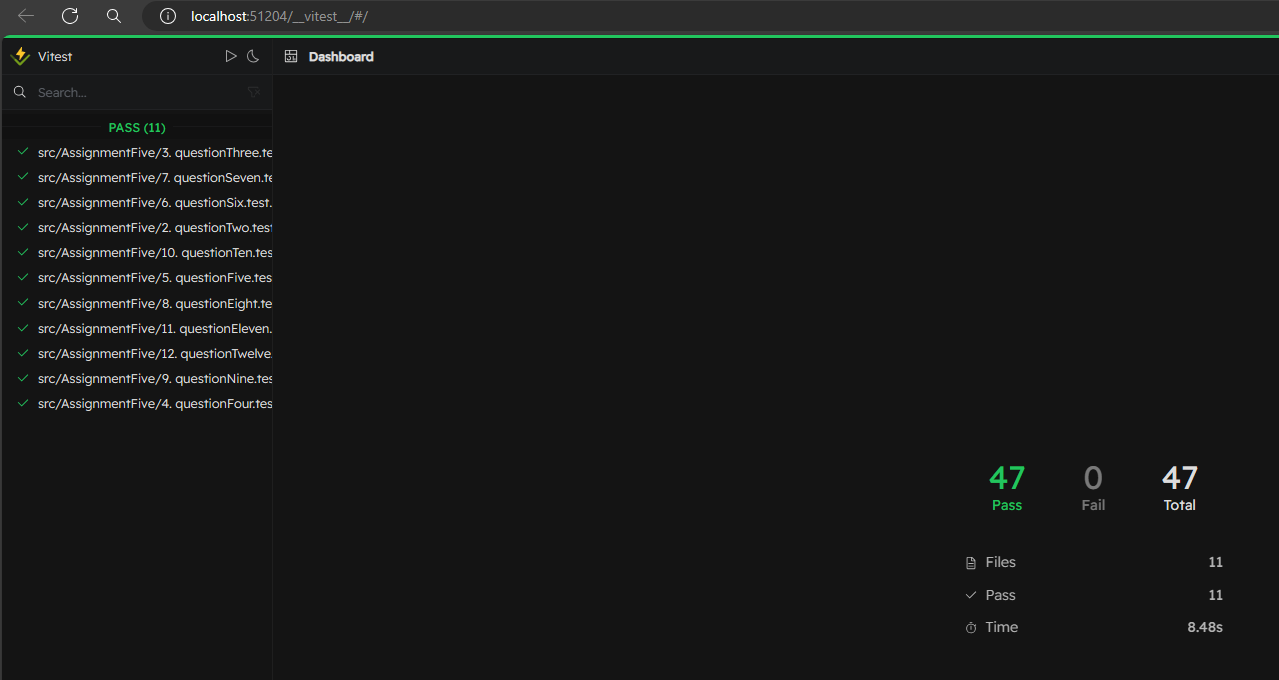
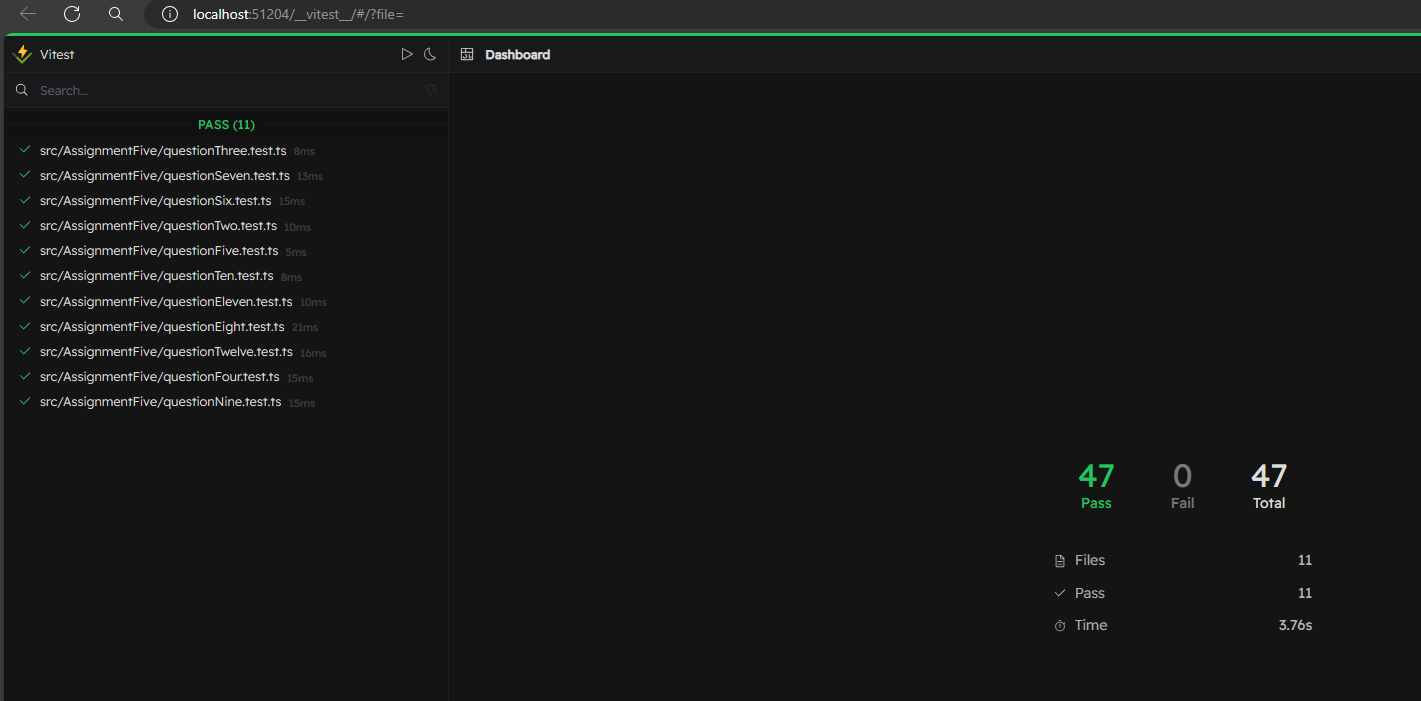
Renamed files again and updated readme.md

diff --git a/src/AssignmentFive/questionFive.test.ts b/src/AssignmentFive/questionFive.test.ts
@@ -1,5 +1,5 @@
 import { describe, test, expect } from 'vitest';
-import { IPricingStrategy, RegularPricingStrategy, HighDemandPricingStrategy, RideService } from './5. questionFive';
+import { IPricingStrategy, RegularPricingStrategy, HighDemandPricingStrategy, RideService } from './questionFive';
 
 describe('Question Five Test Cases', () => {
     test('should calculate fare using RegularPricingStrategy', () => {

diff --git a/src/AssignmentFive/questionEleven.test.ts b/src/AssignmentFive/questionEleven.test.ts
@@ -1,5 +1,5 @@
 import { describe, beforeEach, test, expect, vi } from 'vitest';
-import { PricingStrategy, BasicPricingStrategy, DynamicPricingStrategy, ServiceHandler } from './11. questionEleven';
+import { PricingStrategy, BasicPricingStrategy, DynamicPricingStrategy, ServiceHandler } from './questionEleven';
 
 describe('Pricing Strategy Tests', () => {
     let serviceHandler: ServiceHandler;

diff --git a/src/AssignmentFive/questionTwelve.test.ts b/src/AssignmentFive/questionTwelve.test.ts
@@ -1,5 +1,5 @@
 import { describe, test, expect } from 'vitest';
-import { Smartphone, MobileWeb, SmartphoneAdapter, MobileWebAdapter, App } from './12. questionTwelve';
+import { Smartphone, MobileWeb, SmartphoneAdapter, MobileWebAdapter, App } from './questionTwelve';
 
 describe('Question Twelve Test Cases', () => {
     test('Smartphone Adapter should correctly delegate operations', () => {

diff --git a/src/AssignmentFive/questionTwo.test.ts b/src/AssignmentFive/questionTwo.test.ts
@@ -1,5 +1,5 @@
 import { describe, expect, test, vi } from "vitest";
-import { CarPoolService, CarXService, CarBlackService, CarServiceFacade } from "./2. questionTwo";
+import { CarPoolService, CarXService, CarBlackService, CarServiceFacade } from "./questionTwo";
 
 describe('Question Two Test Cases', () => {
   test("CarPoolService calculateFee returns 'CarPool Service Fee'", () => {

diff --git a/src/AssignmentFive/questionEight.test.ts b/src/AssignmentFive/questionEight.test.ts
@@ -1,5 +1,5 @@
 import { describe, beforeEach, test, expect, vi } from 'vitest';
-import { NormalCarFactory, LuxuryCarFactory, CarService, FaultyCarFactory } from './8. questionEight';
+import { NormalCarFactory, LuxuryCarFactory, CarService, FaultyCarFactory } from './questionEight';
 
 describe('Question Eight Test Cases', () => {
     let normalFactory: NormalCarFactory;

diff --git a/src/AssignmentFive/questionTen.test.ts b/src/AssignmentFive/questionTen.test.ts
@@ -1,5 +1,5 @@
 import { describe, beforeEach, test, expect, vi } from 'vitest';
-import { BasicService, FeatureXDecorator, FeatureYDecorator, FaultyService } from './10. questionTen';
+import { BasicService, FeatureXDecorator, FeatureYDecorator, FaultyService } from './questionTen';
 
 describe('Question Ten Test Cases', () => {
     let basicService: BasicService;

diff --git a/src/AssignmentFive/questionNine.test.ts b/src/AssignmentFive/questionNine.test.ts
@@ -1,5 +1,5 @@
 import { describe, beforeEach, test, expect, vi } from 'vitest';
-import { ReservationAdapter, LegacyReservationSystem } from './9. questionNine';
+import { ReservationAdapter, LegacyReservationSystem } from './questionNine';
 
 describe('Question Nine Test Cases', () => {
     let legacySystem: LegacyReservationSystem;

diff --git a/src/AssignmentFive/questionSix.test.ts b/src/AssignmentFive/questionSix.test.ts
@@ -1,5 +1,5 @@
 import { describe, beforeEach, test, expect, vi } from 'vitest';
-import { Rider, CouponService, RiderImpl } from './6. questionSix';
+import { Rider, CouponService, RiderImpl } from './questionSix';
 
 describe('Question Six Test Cases', () => {
     let couponService: CouponService;

diff --git a/src/AssignmentFive/questionSeven.test.ts b/src/AssignmentFive/questionSeven.test.ts
@@ -1,5 +1,5 @@
 import { describe, beforeEach, test, expect, vi } from 'vitest';
-import { MessageBoard, ConcreteRider } from './7. questionSeven';
+import { MessageBoard, ConcreteRider } from './questionSeven';
 
 describe('Question Seven Test Cases', () => {
     let board: MessageBoard;

diff --git a/src/AssignmentFive/questionThree.test.ts b/src/AssignmentFive/questionThree.test.ts
@@ -1,5 +1,5 @@
 import { describe, expect, test, vi } from 'vitest';
-import { BasicRide, CarGo, CarEATS, ServiceContext } from './3. questionThree';
+import { BasicRide, CarGo, CarEATS, ServiceContext } from './questionThree';
 
 
 vi.spyOn(console, 'log').mockImplementation(() => { });

diff --git a/src/AssignmentFive/questionFour.test.ts b/src/AssignmentFive/questionFour.test.ts
@@ -1,5 +1,5 @@
 import { describe, test, expect, vi } from 'vitest';
-import { PayPalService, PaymentProxy, Client } from './4. questionFour';
+import { PayPalService, PaymentProxy, Client } from './questionFour';
 
 vi.spyOn(console, 'log').mockImplementation(() => {});
 
